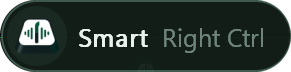
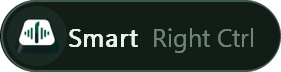
website: screenshots from the 0.5.0 release so the site matches the download (0.5.0 models page shows wrong SenseVoice/Whisper sizes, so show the Dictation page instead)

diff --git a/website/index.html b/website/index.html
@@ -315,10 +315,10 @@
           </figure>
           <ol class="states keep-dark" aria-label="Floating listener states, actual screenshots">
             <li><img src="assets/app/listener-idle.png" width="36" height="36" loading="lazy" alt="Idle listener: the KeyReed mark in a small circle."><b>Idle</b><span>Just the mark. It paints nothing while idle.</span></li>
-            <li><img src="assets/app/listener-listening.png" width="104" height="36" loading="lazy" alt="Listening: green waveform bars beside the KeyReed mark."><b>Listening</b><span>Bars follow your real microphone level.</span></li>
-            <li><img src="assets/app/listener-transcribing.png" width="121" height="36" loading="lazy" alt="Transcribing, in amber text."><b>Transcribing</b><span>Says what it is doing, not just a spinner.</span></li>
-            <li><img src="assets/app/listener-inserted.png" width="115" height="36" loading="lazy" alt="Inserted, with a green check mark."><b>Inserted</b><span>Confirms your words landed.</span></li>
-            <li><img src="assets/app/listener-hover.png" width="146" height="36" loading="lazy" alt="Hover state showing the writing mode Smart and the shortcut Right Ctrl."><b>Hover</b><span>Shows the active mode and shortcut.</span></li>
+            <li><img src="assets/app/listener-listening.png" width="99" height="36" loading="lazy" alt="Listening: green waveform bars beside the KeyReed mark."><b>Listening</b><span>Bars follow your real microphone level.</span></li>
+            <li><img src="assets/app/listener-transcribing.png" width="116" height="36" loading="lazy" alt="Transcribing, in amber text."><b>Transcribing</b><span>Says what it is doing, not just a spinner.</span></li>
+            <li><img src="assets/app/listener-inserted.png" width="110" height="36" loading="lazy" alt="Inserted, with a green check mark."><b>Inserted</b><span>Confirms your words landed.</span></li>
+            <li><img src="assets/app/listener-hover.png" width="141" height="36" loading="lazy" alt="Hover state showing the writing mode Smart and the shortcut Right Ctrl."><b>Hover</b><span>Shows the active mode and shortcut.</span></li>
           </ol>
         </div>
         <p class="fine center" data-reveal>Captured from the running app with its built-in <code>--ui-gallery</code> mode. Settings follows your Windows light or dark app mode.</p>
@@ -419,7 +419,7 @@
           </div>
           <div class="feat-vis">
             <figure class="real-shot">
-              <img src="assets/app/models-light.webp" width="1200" height="867" loading="lazy" decoding="async" alt="KeyReed Settings, Speech models page: six models with download size, languages and measured speed, each verified with SHA-256.">
+              <img src="assets/app/dictation-light.webp" width="1200" height="867" loading="lazy" decoding="async" alt="KeyReed Settings, Dictation page: push-to-talk shortcut drop-down, a switch to listen for the shortcut, and a choice between hold to talk and press to start and stop.">
             </figure>
           </div>
         </article>
